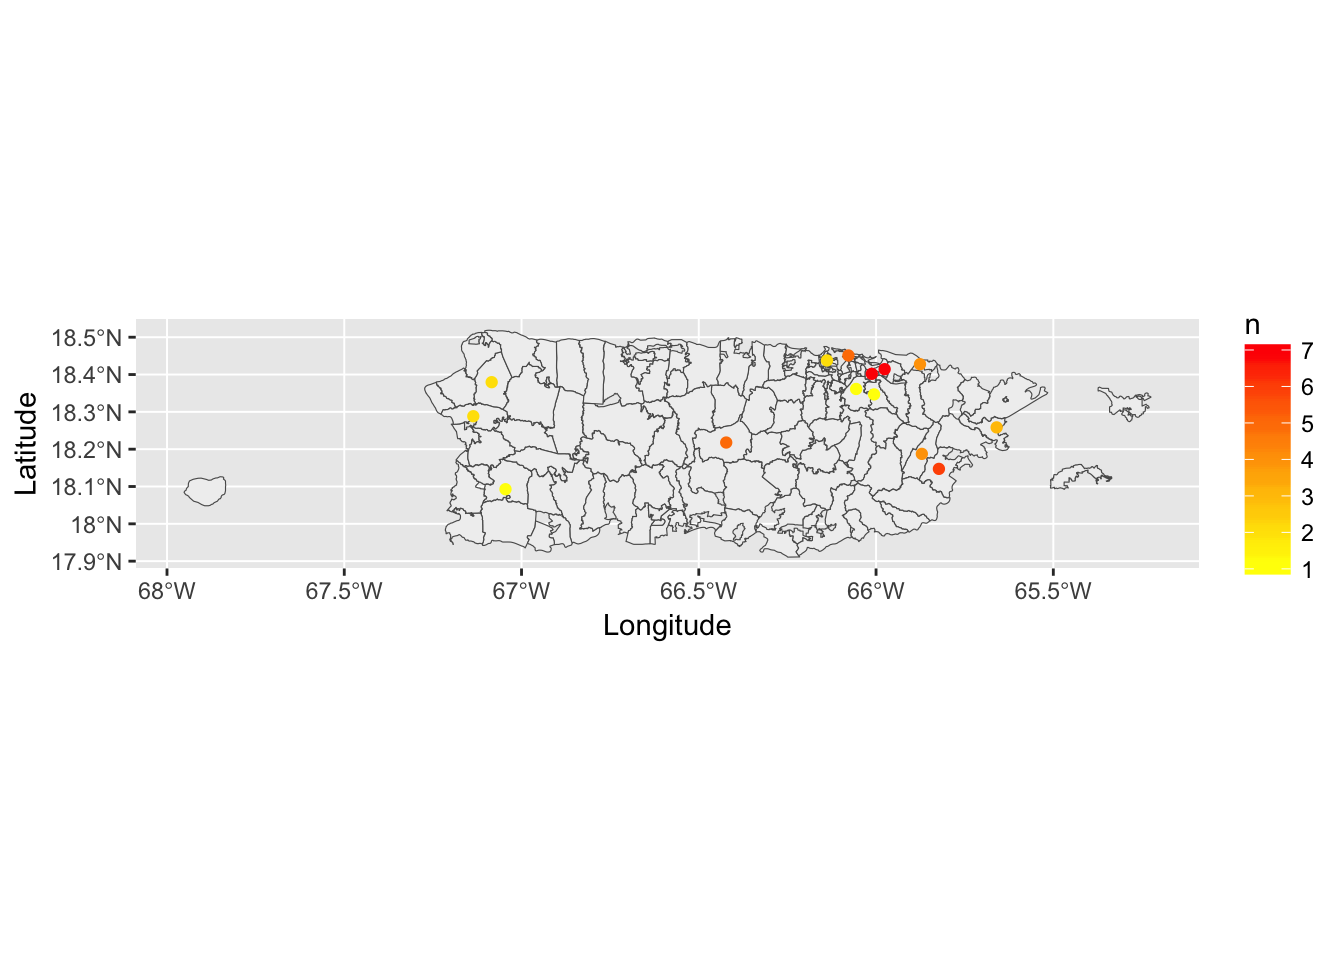
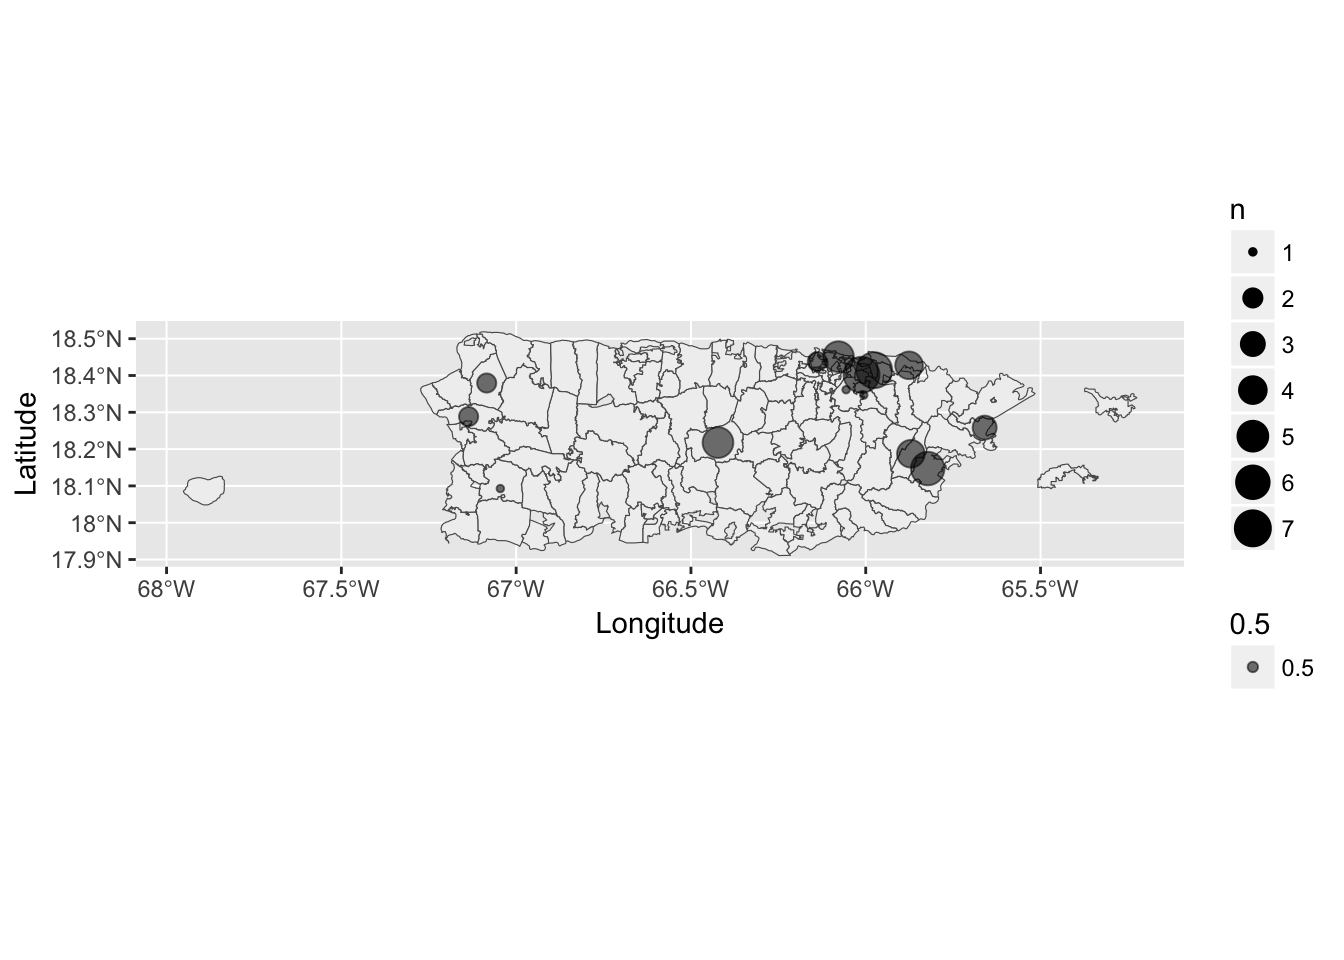
commit

diff --git a/docs/index.html b/docs/index.html
@@ -654,11 +654,6 @@ PRzips</code></pre>
 ## 17 MULTIPOLYGON (((-66.03084 1...
 ## 18 MULTIPOLYGON (((-66.292568 ...
 ## 19 MULTIPOLYGON (((-66.91667 1...</code></pre>
-<p>Plot PR zip codes– this is a first graphic output for the project. Future iterations will be much better.</p>
-<pre class="r"><code>plot(PRzips)</code></pre>
-<pre><code>## Warning: plotting the first 10 out of 11 attributes; use max.plot = 11 to
-## plot all</code></pre>
-<p><img src="index_files/figure-html/unnamed-chunk-6-1.png" width="672" /></p>
 <p>Join the Buffalo Shelter Data and the PRdataframe by zip code, then assign coordinates using “Longitude” and “Latitude”. You can now plot the general location of where homeless people were coming from based on the controid coordinates of their zip code origin.</p>
 <pre class="r"><code>BufDataLL&lt;-inner_join(Buffalo_Shelter_Data, PRdataframe, by= &quot;Zip&quot;)
 coordinates(BufDataLL)&lt;-c(&quot;Longitude&quot;,&quot;Latitude&quot;)
@@ -712,14 +707,14 @@ count_in_zips_polygons&lt;-inner_join(Buffalo_Shelter_Data, PRzips, by= c(&quot;
 <pre class="r"><code>##map of boundaries
 ggplot(PRzips)+
   geom_sf(lwd=0.2,fill=&quot;#f0f0f0&quot;)</code></pre>
-<p><img src="index_files/figure-html/unnamed-chunk-9-1.png" width="672" /></p>
+<p><img src="index_files/figure-html/unnamed-chunk-8-1.png" width="672" /></p>
 <p>Choropleth map of density (number of people coming to Buffalo from each Puerto Rican zip code)</p>
 <pre class="r"><code>###choropleth map of density
 ggplot(PRzips)+
   geom_sf(lwd=0.2,fill=&quot;#f0f0f0&quot;)+
   geom_sf(data=count_in_zips_polygons, aes(fill = n)) +
   scale_fill_gradient(low = &quot;yellow&quot;, high = &quot;red&quot;)</code></pre>
-<p><img src="index_files/figure-html/unnamed-chunk-10-1.png" width="672" /></p>
+<p><img src="index_files/figure-html/unnamed-chunk-9-1.png" width="672" /></p>
 <p>Map of centroid dots of location of origin; color indicating number coming from that place</p>
 <pre class="r"><code>#create points as data frame to use in ggplot
 points &lt;- data.frame(count_in_zips_points)
@@ -729,13 +724,13 @@ ggplot(PRzips)+
   geom_sf(lwd=0.2,fill=&quot;#f0f0f0&quot;)+
   geom_point(data=points, aes(x=Longitude, y=Latitude, colour=n))+
   scale_colour_gradient(low = &quot;yellow&quot;, high = &quot;red&quot;)</code></pre>
-<p><img src="index_files/figure-html/unnamed-chunk-11-1.png" width="672" /></p>
+<p><img src="index_files/figure-html/unnamed-chunk-10-1.png" width="672" /></p>
 <p>Map of centroid dots of location of origin; size indicating number coming from that place</p>
 <pre class="r"><code>##map of dots, sized by number
 ggplot(PRzips)+
   geom_sf(lwd=0.2,fill=&quot;#f0f0f0&quot;)+
   geom_point(data=points, aes(x=Longitude, y=Latitude, size=n, alpha=.5))</code></pre>
-<p><img src="index_files/figure-html/unnamed-chunk-12-1.png" width="672" /></p>
+<p><img src="index_files/figure-html/unnamed-chunk-11-1.png" width="672" /></p>
 <p>Map of migration to Buffalo along great circle lines, weighted by the number of people coming from each place (darker = more people)</p>
 <pre class="r"><code>xlim &lt;- c(-140, -55.5)
 ylim &lt;- c(12, 50)
@@ -752,7 +747,7 @@ for (j in 1:length(points$n)) {
 
 lines(inter, col=colors[colindex], lwd=0.8)
 }</code></pre>
-<p><img src="index_files/figure-html/unnamed-chunk-13-1.png" width="672" /></p>
+<p><img src="index_files/figure-html/unnamed-chunk-12-1.png" width="672" /></p>
 <p>Zoomed-in map of migration to Buffalo along great circle lines, weighted by the number from each place (darker = more people)</p>
 <pre class="r"><code>xlim &lt;- c(-90, -60)
 ylim &lt;- c(18, 45)
@@ -769,7 +764,7 @@ for (j in 1:length(points$n)) {
   
   lines(inter, col=colors[colindex], lwd=0.8)
 }</code></pre>
-<p><img src="index_files/figure-html/unnamed-chunk-14-1.png" width="672" /></p>
+<p><img src="index_files/figure-html/unnamed-chunk-13-1.png" width="672" /></p>
 </div>
 <div id="conclusions" class="section level1">
 <h1>Conclusions</h1>
